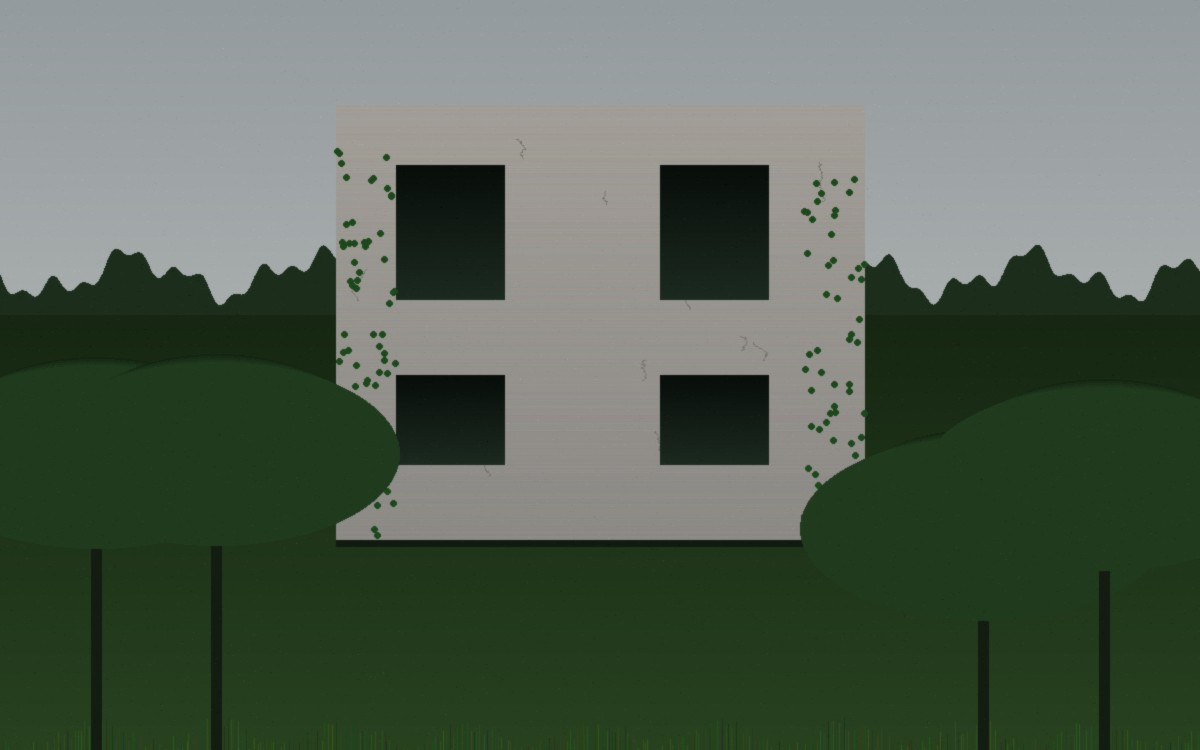
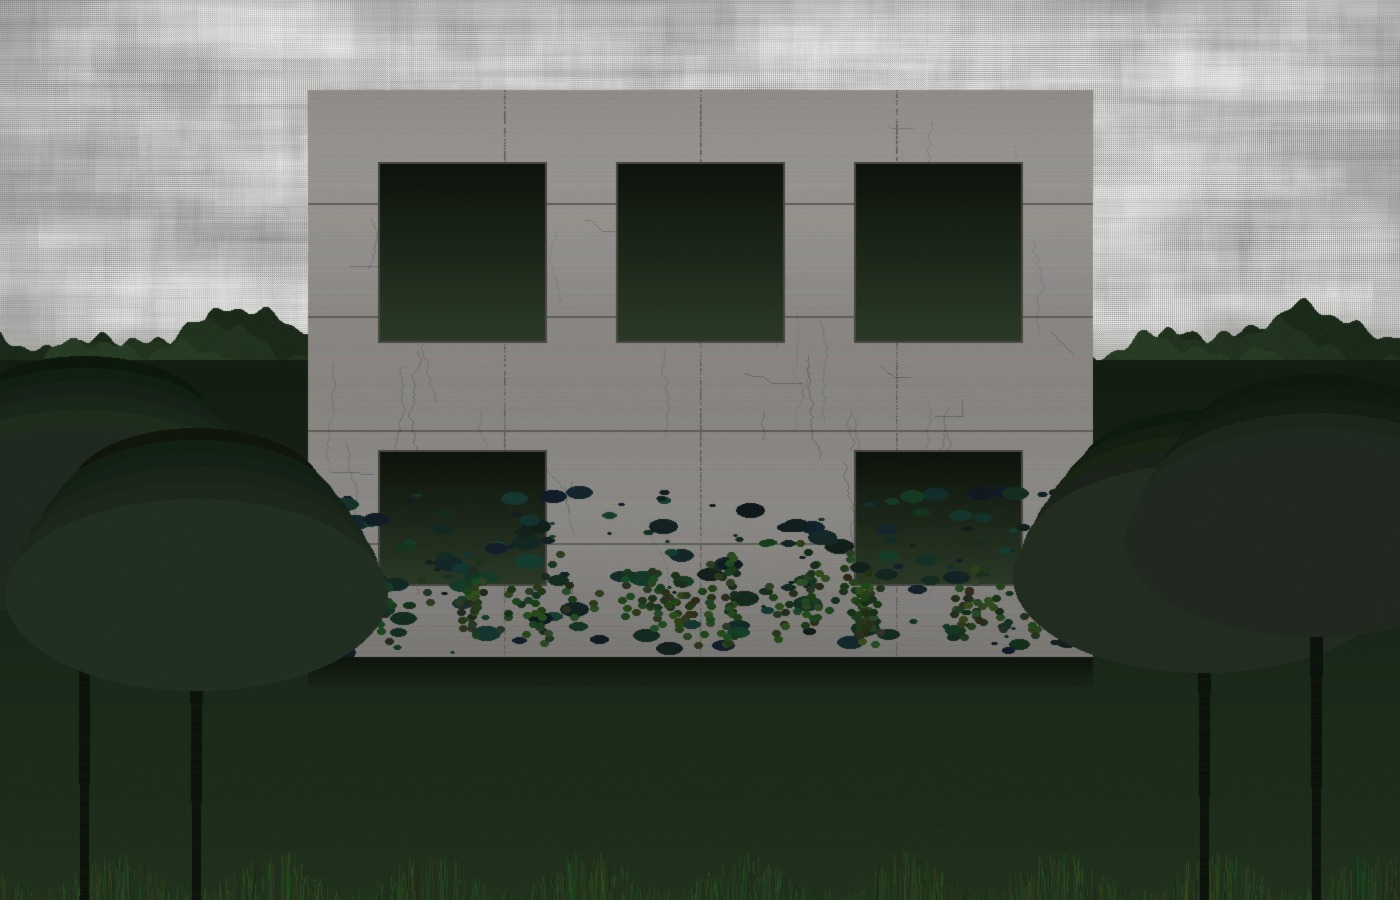
Adjust section heights, regenerate images with more realism
- hero: 75vh → 56vh, coming-soon: 60vh → 45vh
- img-section: 65vh → 77vh (absorbs reduced text height)
- photo-02: detailed concrete brutalist building in overgrown nature
- photo-03: realistic penitentes ice field with Andes backdrop

https://claude.ai/code/session_01GEZ1yAmj49jZbz9iqnZxUu

diff --git a/style.css b/style.css
@@ -81,7 +81,7 @@ nav a:hover {
 /* ─── Hero ────────────────────────────────────────── */
 
 .hero {
-  min-height: 75vh;
+  min-height: 56vh;
   display: flex;
   flex-direction: column;
   justify-content: center;
@@ -139,7 +139,7 @@ nav a:hover {
 /* ─── Coming Soon ─────────────────────────────────── */
 
 .coming-soon {
-  min-height: 60vh;
+  min-height: 45vh;
   display: flex;
   align-items: center;
   padding: 6rem 3rem;
@@ -275,7 +275,7 @@ footer {
 
 .img-section {
   width: 100%;
-  height: 65vh;
+  height: 77vh;
   overflow: hidden;
   display: block;
   margin: 0;
